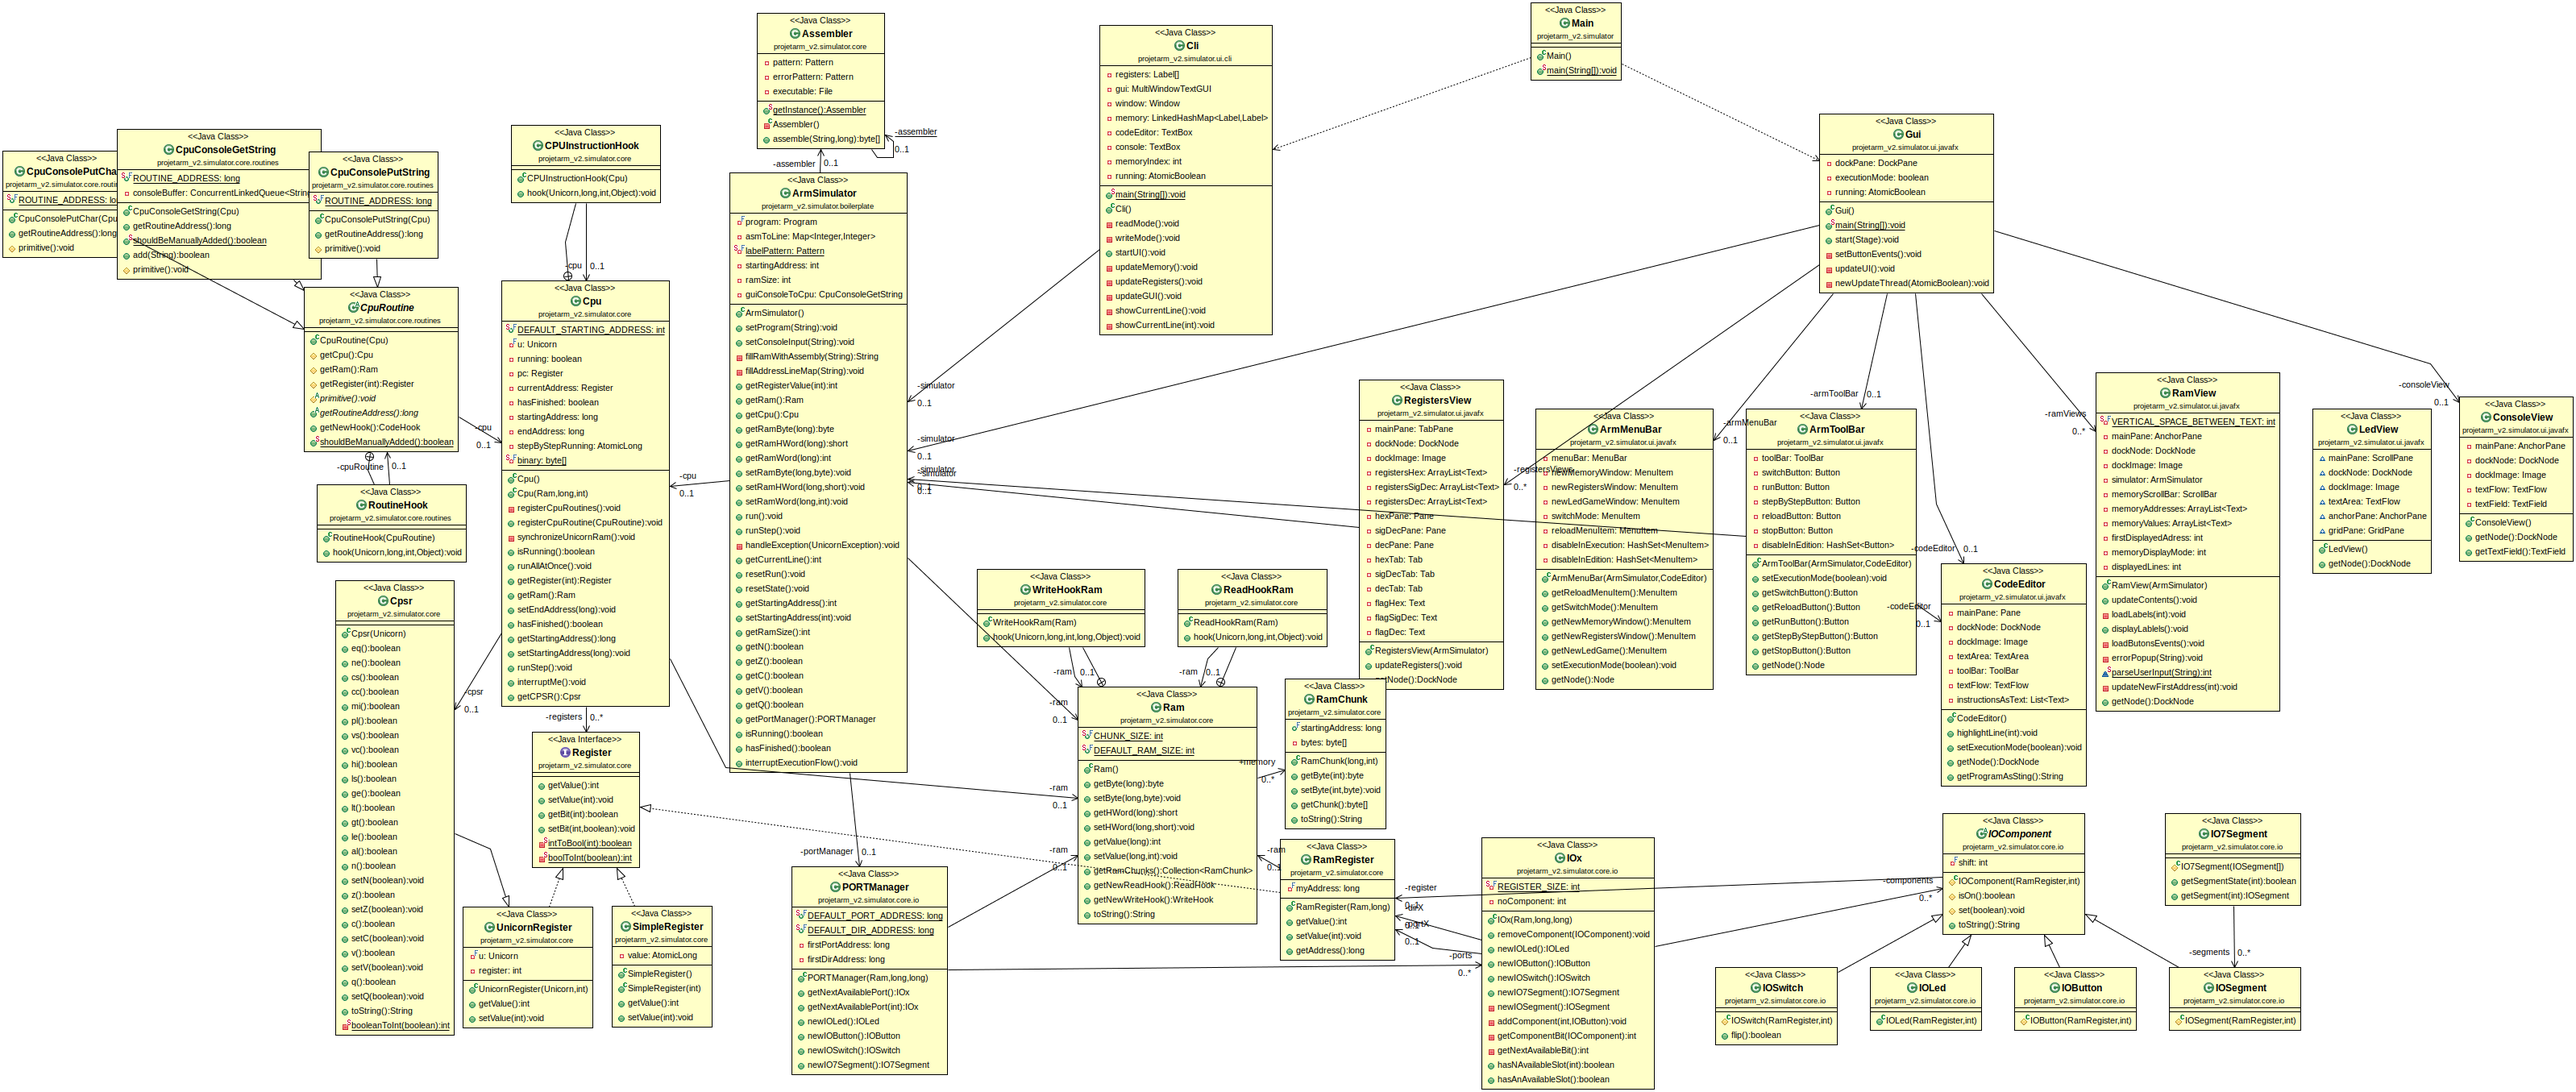
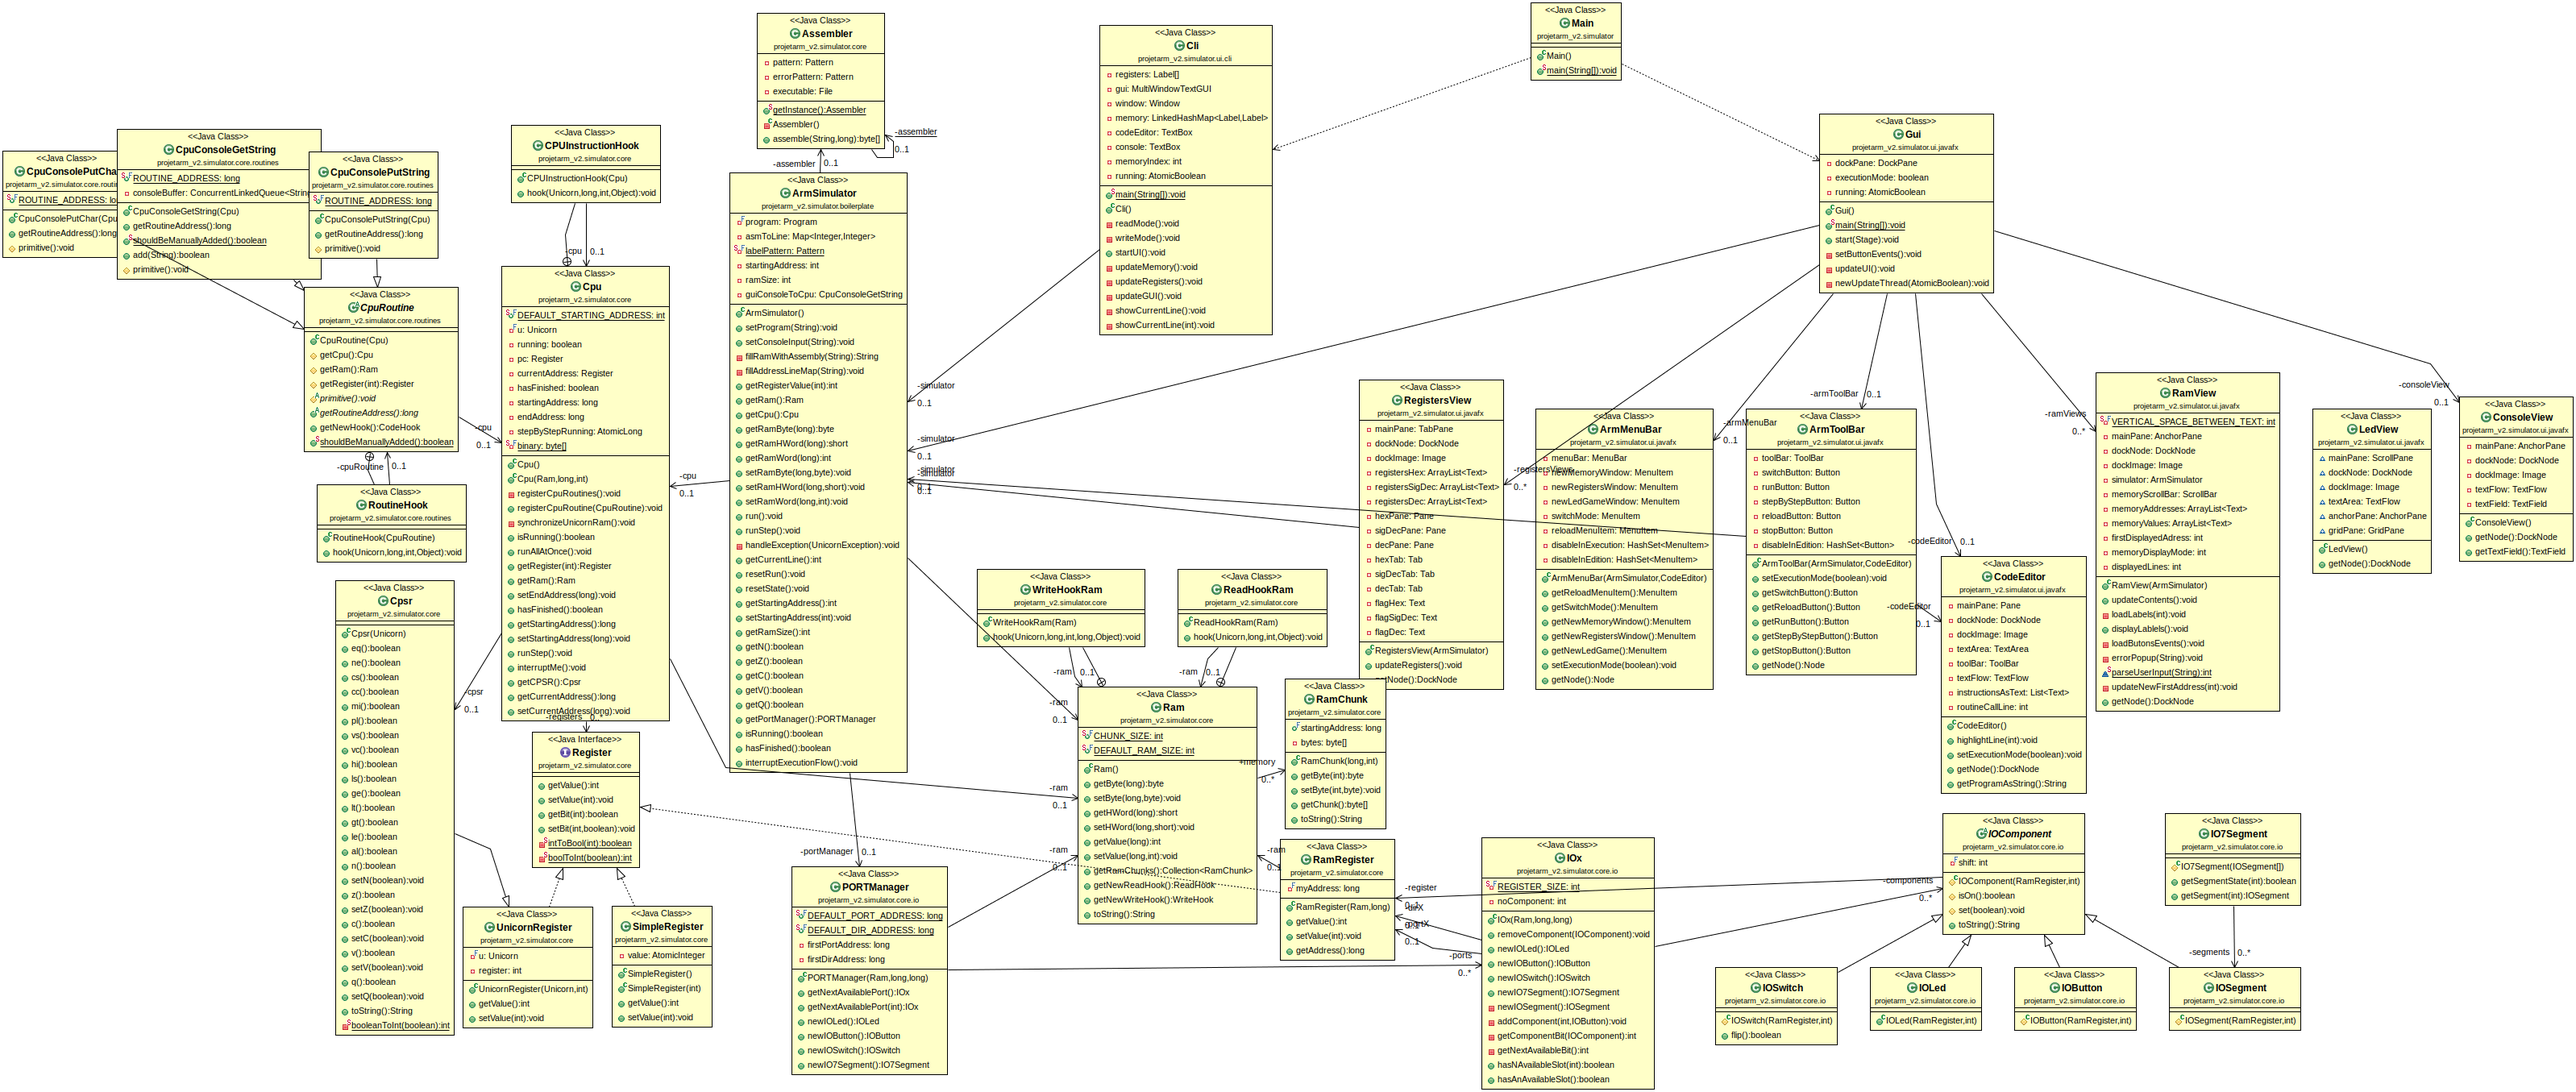
Fix ArmSimulator getCurrentLine() method and the way routines are being executed

Changed region(s): [[0.1859, 0.217, 0.2788, 0.6819], [0.7434, 0.4959, 0.8054, 0.7439]]

diff --git a/src/projetarm_v2/simulator/core/Cpu.java b/src/projetarm_v2/simulator/core/Cpu.java
@@ -55,7 +55,7 @@ public class Cpu {
 		// being executed
 		this.pc = this.registers[15];
 
-		this.currentAddress = new SimpleRegister((int)startingAddress);
+		this.currentAddress = new SimpleRegister((int)startingAddress); // I use a SimpleRegister instead of a simple field because SimpleRegister is Thread-Safe thanks to the AtomicInteger inside it
 
 		
 		u.mem_map(0, ramSize, Unicorn.UC_PROT_ALL);
@@ -152,9 +152,13 @@ public class Cpu {
 		hasFinished = false;
 		this.stepByStepRunning.set(1);
 		
-		u.emu_start(this.currentAddress.getValue(), (long)this.currentAddress.getValue()+4, 0, 0);
+		int startAddress = this.currentAddress.getValue();
 		
-		this.currentAddress.setValue(this.currentAddress.getValue() + 4);
+		u.emu_start(startAddress, (long)startAddress+4, 0, 0);
+		
+		if (startAddress == this.currentAddress.getValue()) {
+			this.currentAddress.setValue(this.currentAddress.getValue() + 4);
+		}
 
 		running = false;
 	}
@@ -180,7 +184,7 @@ public class Cpu {
 			}
 			
 			if (this.cpu.ram.getValue(address) == 0) {
-				System.out.format(">>> Instruction @ 0x%x skipped%n", this.cpu.pc.getValue());
+				System.out.format(">>> Instruction @ 0x%x skipped%n", this.cpu.currentAddress.getValue());
 				u.emu_stop();
 				this.cpu.hasFinished = true;
 				this.cpu.running = false;
@@ -196,4 +200,12 @@ public class Cpu {
 	public Cpsr getCPSR() {
 		return this.cpsr;
 	}
+
+	public long getCurrentAddress() {
+		return this.currentAddress.getValue();
+	}
+	public void setCurrentAddress(long address) {
+		this.currentAddress.setValue((int)address);
+	}
+	
 }

diff --git a/src/projetarm_v2/simulator/ui/javafx/Gui.java b/src/projetarm_v2/simulator/ui/javafx/Gui.java
@@ -110,18 +110,18 @@ public class Gui extends Application {
 		// the window "items"
 		this.armMenuBar.getNewMemoryWindow().setOnAction(actionEvent -> {
 			RamView moreRamView = new RamView(simulator);
+			this.ramViews.add(moreRamView);
 			moreRamView.getNode().dock(dockPane, DockPos.RIGHT);
-			// consoleView.getNode().dock(dockPane, DockPos.BOTTOM);
 		});
 		this.armMenuBar.getNewRegistersWindow().setOnAction(actionEvent -> {
 			RegistersView moreRegistersView = new RegistersView(simulator);
+			this.registersViews.add(moreRegistersView);
 			moreRegistersView.getNode().dock(dockPane, DockPos.LEFT);
-			// consoleView.getNode().dock(dockPane, DockPos.BOTTOM);
 		});
 		this.armMenuBar.getNewLedGame().setOnAction(actionEvent -> {
 			LedView moreLedView = new LedView();
+			//this.ledViews.add(moreLedView);
 			moreLedView.getNode().dock(dockPane, DockPos.RIGHT);
-			// consoleView.getNode().dock(dockPane, DockPos.BOTTOM);
 		});
 
 		// the "Run" items
@@ -145,6 +145,7 @@ public class Gui extends Application {
 			if (!running.get()) {
 				this.simulator.resetState();
 				this.simulator.setProgram(codeEditor.getProgramAsString());
+				updateUI();
 			}
 		});
 
@@ -203,6 +204,7 @@ public class Gui extends Application {
 			for (RamView ramView : this.ramViews) {
 				ramView.updateContents();
 			}
+			
 			this.codeEditor.highlightLine(this.simulator.getCurrentLine());
 		});
 	}

diff --git a/src/projetarm_v2/simulator/core/SimpleRegister.java b/src/projetarm_v2/simulator/core/SimpleRegister.java
@@ -1,9 +1,9 @@
 package projetarm_v2.simulator.core;
 
-import java.util.concurrent.atomic.AtomicLong;
+import java.util.concurrent.atomic.AtomicInteger;
 
 public class SimpleRegister implements Register {
-	private AtomicLong value = new AtomicLong(0);
+	private AtomicInteger value = new AtomicInteger(0);
 	
 	public SimpleRegister() {}
 
@@ -12,8 +12,7 @@ public class SimpleRegister implements Register {
 	}
 	
 	public int getValue() {
-		Long value = this.value.get();
-		return value.intValue();
+		return this.value.get();
 	}
 
 	@Override

diff --git a/src/projetarm_v2/simulator/core/routines/CpuRoutine.java b/src/projetarm_v2/simulator/core/routines/CpuRoutine.java
@@ -48,7 +48,7 @@ public abstract class CpuRoutine {
 		}
 
 		public void hook(Unicorn u, long address, int size, Object user_data) {
-			if (this.cpuRoutine.getRoutineAddress() != address) {
+			if (address != this.cpuRoutine.getRoutineAddress()) {
 				return;
 			}
 			
@@ -60,6 +60,8 @@ public abstract class CpuRoutine {
 			{
 				e.printStackTrace();
 			}
+			
+			this.cpuRoutine.getCpu().setCurrentAddress((long)this.cpuRoutine.getCpu().getRegister(14).getValue()-4);
 		}
 
 	}

diff --git a/src/projetarm_v2/simulator/ui/javafx/CodeEditor.java b/src/projetarm_v2/simulator/ui/javafx/CodeEditor.java
@@ -58,7 +58,7 @@ public class CodeEditor {
             instructionsAsText.get(line - 1).setFill(Color.RED);
             this.routineCallLine = line-1;
         }else if (line == 0){
-            instructionsAsText.get(routineCallLine).setFill(Color.BLUE); //je sais pas si c'est pertinant (mise en bleu de la ligne ayant appellé la routine?
+           // instructionsAsText.get(routineCallLine).setFill(Color.BLUE); // Active le uniquement en pas à pas
         }
 
     }

diff --git a/src/projetarm_v2/simulator/core/routines/CpuGetFile.java b/src/projetarm_v2/simulator/core/routines/CpuGetFile.java
@@ -9,11 +9,11 @@ import java.nio.file.Paths;
 import java.util.ArrayList;
 import java.util.List;
 
-public class CPUGetFile extends CpuRoutine
+public class CpuGetFile extends CpuRoutine
 {
 	public static final long ROUTINE_ADDRESS = 0xFF0CL;
 	
-	public CPUGetFile(Cpu cpu) { super(cpu); }
+	public CpuGetFile(Cpu cpu) { super(cpu); }
 	
 	@Override
 	public long getRoutineAddress() { return ROUTINE_ADDRESS; }

diff --git a/src/projetarm_v2/simulator/core/routines/CpuSaveFile.java b/src/projetarm_v2/simulator/core/routines/CpuSaveFile.java
@@ -2,11 +2,11 @@ package projetarm_v2.simulator.core.routines;
 
 import projetarm_v2.simulator.core.Cpu;
 
-public class CPUSaveFile extends CpuRoutine
+public class CpuSaveFile extends CpuRoutine
 {
 	public static final long ROUTINE_ADDRESS = 0xFF10L;
 	
-	public CPUSaveFile(Cpu cpu) {
+	public CpuSaveFile(Cpu cpu) {
 		super(cpu);
 	}
 	

diff --git a/src/projetarm_v2/simulator/core/routines/CpuSleep.java b/src/projetarm_v2/simulator/core/routines/CpuSleep.java
@@ -8,7 +8,7 @@ import projetarm_v2.simulator.core.Cpu;
 
 public class CpuSleep extends CpuRoutine {
 
-	public static final long ROUTINE_ADDRESS = 0xFF0CL;
+	public static final long ROUTINE_ADDRESS = 0xFF14L;
 	
 	public CpuSleep(Cpu cpu) {
 		super(cpu);

diff --git a/src/projetarm_v2/simulator/boilerplate/ArmSimulator.java b/src/projetarm_v2/simulator/boilerplate/ArmSimulator.java
@@ -214,7 +214,7 @@ public class ArmSimulator {
 	}
 
 	public int getCurrentLine() {
-		return this.asmToLine.getOrDefault(this.getRegisterValue(15), 0);
+		return this.asmToLine.getOrDefault((int)this.cpu.getCurrentAddress(), 0);
 	}
 
 	/**
